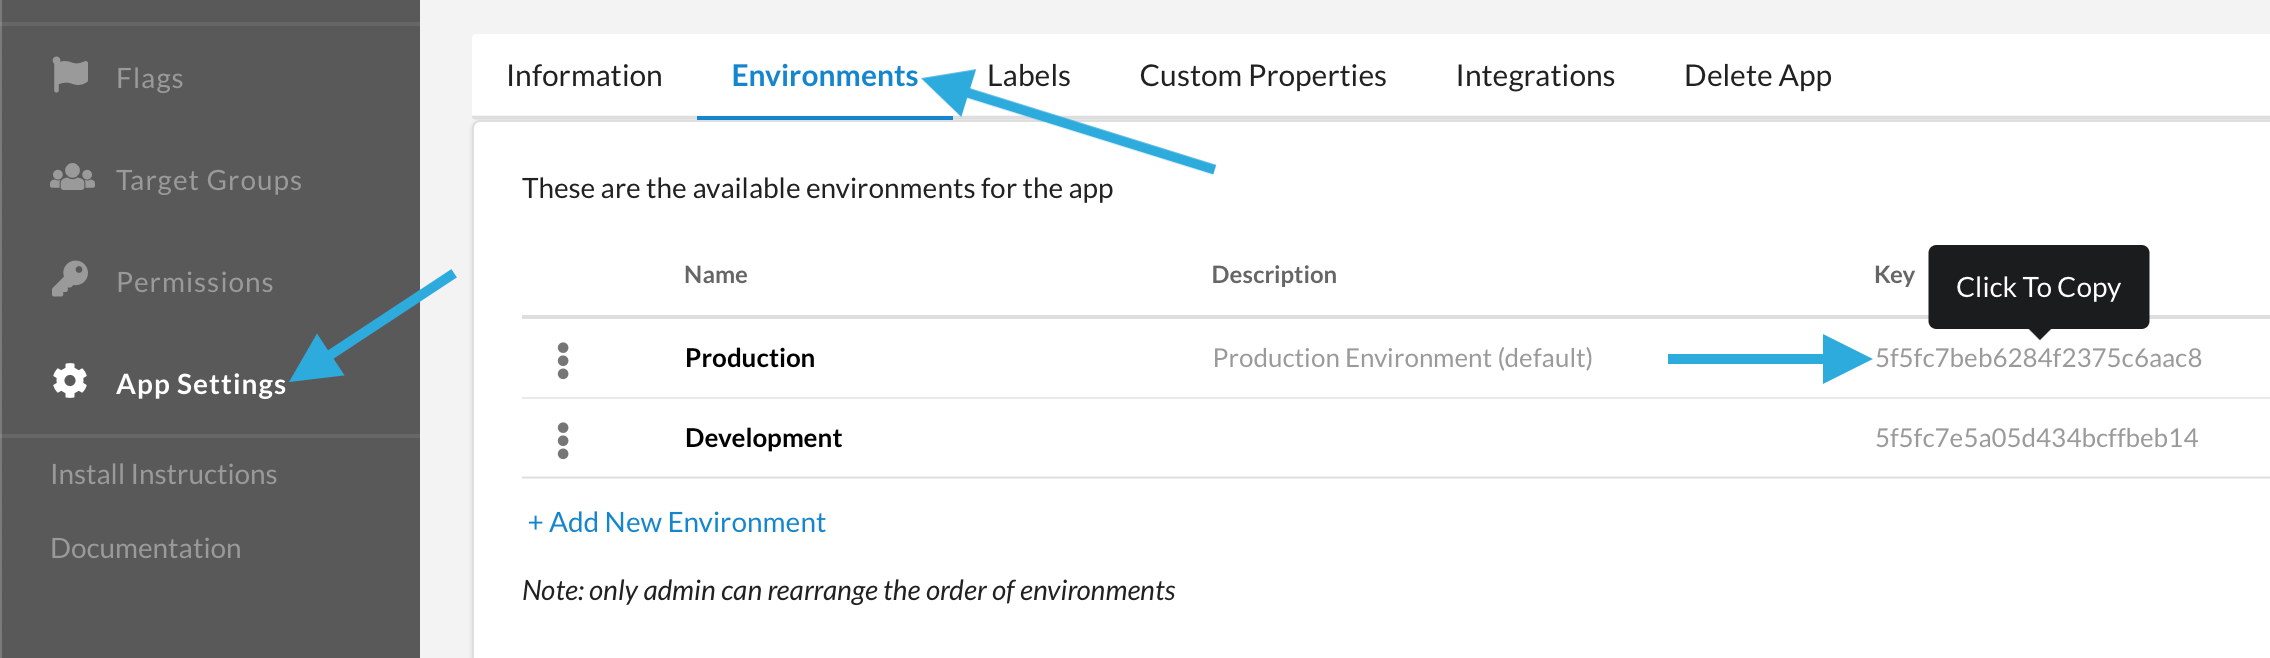
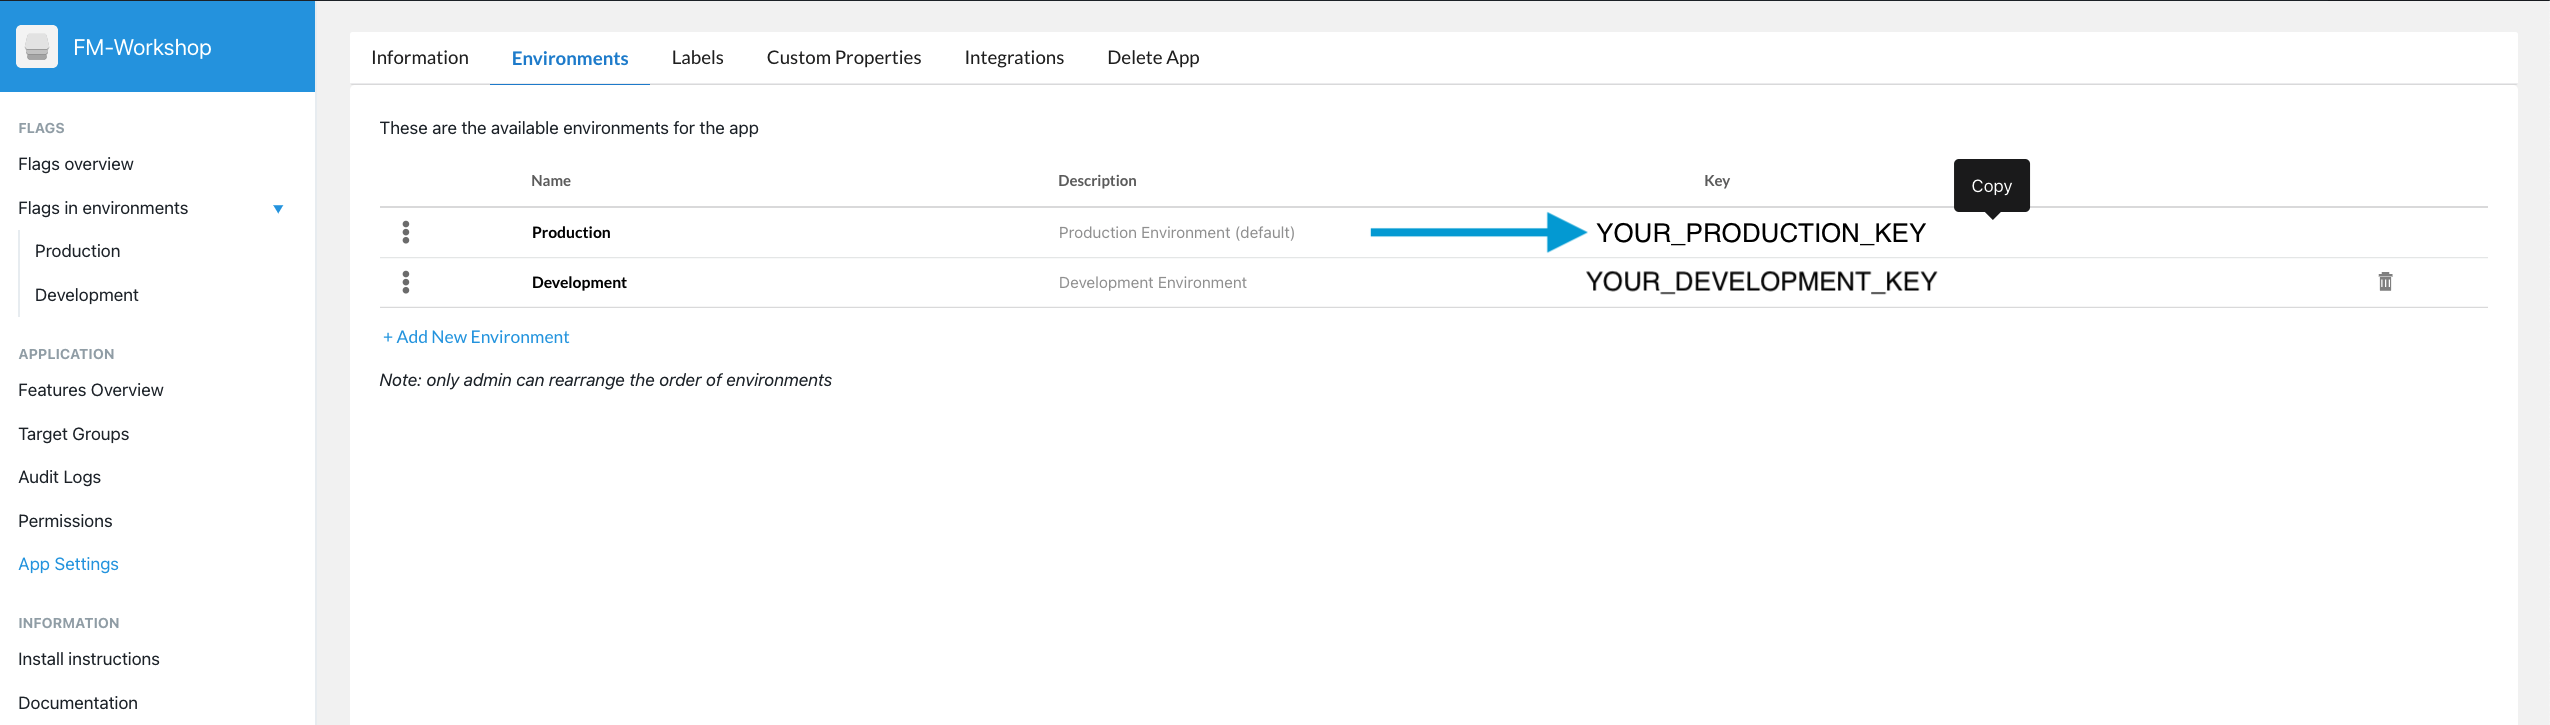
3/22/21

diff --git a/labs/cloudbees-feature-flags/content/getting-started/pre-workshop-setup.md b/labs/cloudbees-feature-flags/content/getting-started/pre-workshop-setup.md
@@ -28,7 +28,7 @@ We highly recommend creating a new GitHub Organization for the CloudBees Feature
 
 ### Install the CloudBees Feature Management Workshop GitHub App
 
-1. Ensure that you are logged into GitHub.com and then navigate to [https://github.com/apps/cloudbees-feature-flags-workshop](https://github.com/apps/cloudbees-feature-flags-workshop). ![GitHub App](cbff-github-app.png?width=60pc)
+1. Ensure that you are logged into GitHub.com and then navigate to [https://github.com/apps/cloudbees-feature-management-ws](https://github.com/apps/cloudbees-feature-management-ws). ![GitHub App](cbfm-github-app.png?width=60pc)
 2. Click on the **Install** button.
 3. Next, select the GitHub Organization you created above for the CloudBees Feature Management Workshop. ![GitHub App](github-app-select-org.png?width=50pc)
 4. On the next screen, ensure that **All repositories** is selected and click the **Install** button. ![GitHub App](github-app-install.png?width=50pc)

diff --git a/labs/cloudbees-feature-flags/content/getting-started/setup.md b/labs/cloudbees-feature-flags/content/getting-started/setup.md
@@ -15,7 +15,7 @@ In this lab, you will set up a CloudBees Feature Management account and use it t
 3. After you have successfully created an account, the CloudBees Feature Management dashboard will be displayed. On the far left side of the dashboard, click the **App Settings** panel. From the resulting page, select the **Environments** tab.
 4. Click **Add New Environment** and name it **Development**. Then click **Generate Key**.
 5. **Close** the subsequent **Development Key** pop-up window so that both _Production_ and _Development_ keys are displayed. Leave this CloudBees Feature Management dashboard tab open in the browser. Both keys will be referenced later in this lab.
-![Environment Key](images/RolloutEnvKey.png?width=50pc)
+![Environment Key](images/CBFMEnvKey.png?width=50pc)
 
 ### API Key Environment Variable
 
